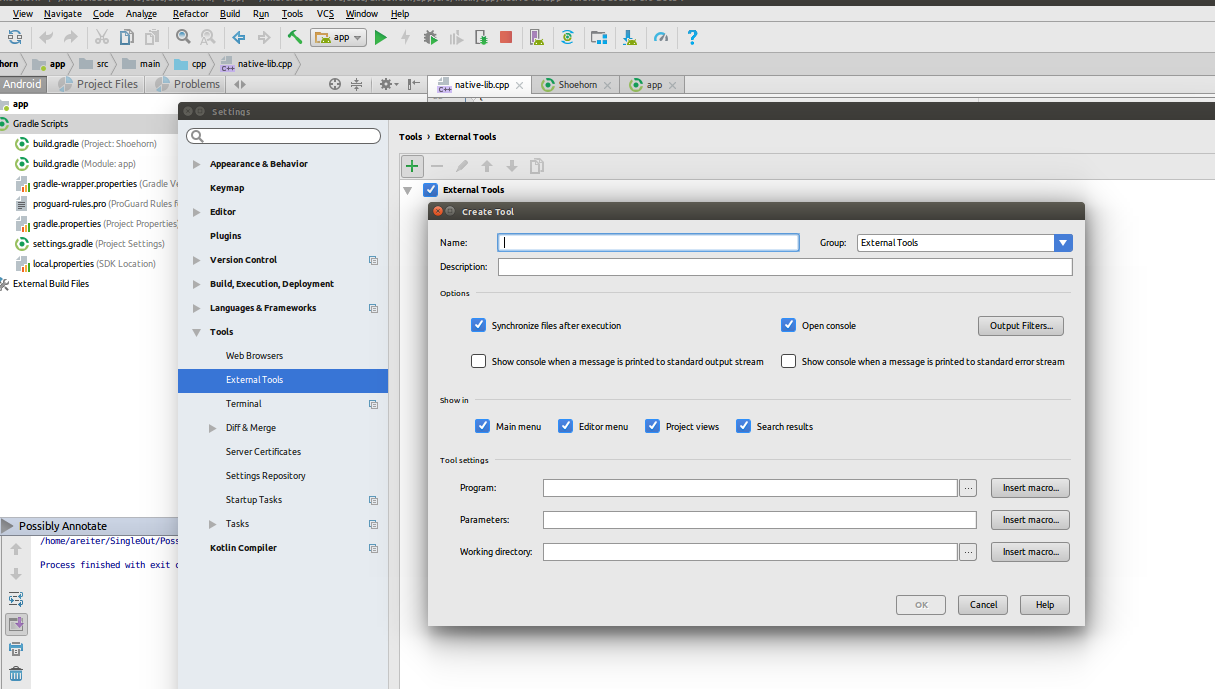
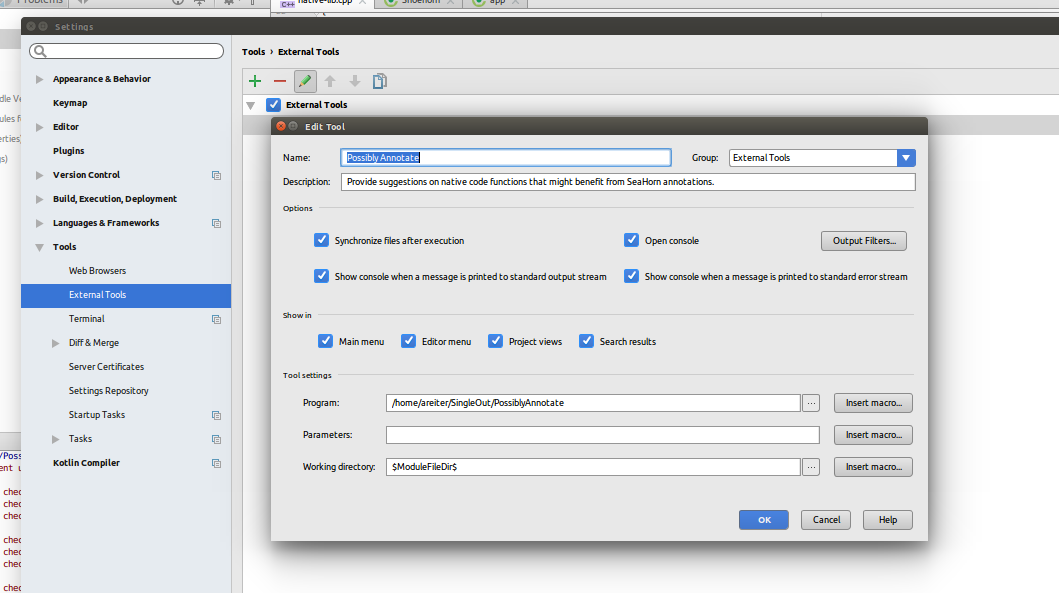
Use a better screenshot for PossiblyAnnotate setup

diff --git a/README.md b/README.md
@@ -335,7 +335,7 @@ gradle build json file, I wrote a Python [wrapper script](https://github.com/roa
 This is also a decent example of how one could do the SeaHorn task via a external tool, but invoked from 
 the build.
 
-Adding an external tool to Android Studio is not so bad. You go to the preferences for Android Studio and
+Adding an external tool to Android Studio is not so bad. You go to the settings for Android Studio and
 there is a category named "Tools"; under this there is a section for "External Tools". There you can 
 add a tool and how it is to be executed.
 
